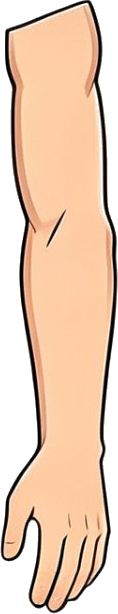
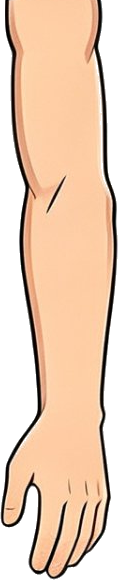
feat: 绑骨 rig 微调（腿内侧减半/关节间隙/头臂下移/小臂缩短）
- 两腿内侧间距缩小一半（LEG_INNER_GAP_SCALE=0.5），外沿对齐臀部外沿

- 上臂-前臂、大腿-小腿关节间隙缩小 1/10 小腿长（JOINT_GAP_REDUCE_FRAC=0.1）

- 头下移 HEAD_DROP=8、两臂下移 ARM_DROP=12（含 neck/shoulder 补偿）

- 左右小臂各缩短 5 世界单位（手长不变、肘距不变）

验证：contact_sheet_test_rig.png 已重生成；godot --check-only 无本次改动引入的新错误（data_portability.gd autoload 缺失为既存无关问题）

Changed region(s): [[0.0, 0.0, 1.0, 1.0]]

diff --git a/godot_project/tools/split_and_rig_test.py b/godot_project/tools/split_and_rig_test.py
@@ -172,6 +172,22 @@ def build_rig_spec(parts: dict) -> dict:
     # 让躯干在世界坐标中长约 110（与 Sherlock 一致）
     world_scale = 110.0 / max(torso_h, 1.0)
 
+    # 缩短小臂：裁掉 forearm 纹理顶端(肘端) 5 世界单位，手(底端)保留。
+    # bone 的 pos/len/pivot 在下方按新尺寸(返回 sz)自动回算 => 肘连接点(与上臂距离)保持不变。
+    FA_SHORTEN = 5.0   # 世界单位
+    fa_crop_px = int(round(FA_SHORTEN / world_scale))
+    for fk in ("forearm_L", "forearm_R"):
+        if fk in parts:
+            fp = OUT_DIR / parts[fk]["filename"]
+            fim = Image.open(fp).convert("RGBA")
+            fw, fh = fim.size
+            crop = max(0, min(fa_crop_px, fh - 20))   # 安全：至少留 20px 纹理
+            if crop > 0:
+                fim2 = fim.crop((0, crop, fw, fh))    # 裁掉顶部 crop 像素（肘端）
+                fim2.save(fp)
+                parts[fk]["size"] = [fim2.width, fim2.height]
+                print(f"  -> shorten {fk}: crop top {crop}px (~5 world units), new {fim2.width}x{fim2.height}")
+
     spec = {
         "character": "test_rig_character",
         "parts_dir": "res://assets/characters/test_rig_character/rig/",
@@ -203,11 +219,17 @@ def build_rig_spec(parts: dict) -> dict:
     GAP = 3.0
     neck_gap = GAP                       # 头-躯干：3px 干净间距
     hip_gap = -15.0                      # 躯干-腿：骨盆正中间收窄约14px，须重叠约15px正中才看连上（腿画在躯干下层，叠入部分被躯干盖住）
+    LEG_INNER_GAP_SCALE = 0.5            # 两腿内侧可见间距缩放（1.0=外沿对齐臀部外沿最开；0.5=内侧间距减半）
+    # 肘/膝关节间距缩小量 = 小腿长度 × 此比例（用户要求缩小 1/10 小腿长度）
+    JOINT_GAP_REDUCE_FRAC = 0.1
+    joint_reduce = sz("shin_L")[1] * world_scale * JOINT_GAP_REDUCE_FRAC
 
-    add("head", "", [0, 0], 0, head_len, head_w * world_scale,
+    HEAD_DROP = 8.0    # 头部整体下移 8 世界单位（较上次 +10 上移 2）
+    ARM_DROP = 12.0    # 两臂整体下移 12 世界单位（较上次 +10 再下移 2）
+    add("head", "", [0, HEAD_DROP], 0, head_len, head_w * world_scale,
         "head.png", [head_w / 2, head_h * head_pivot_y_ratio], skin)
-    # neck 位于 head 底端，torso 从 neck 底端开始 => 颈部长度 = neck_gap
-    add("neck", "head", [0, head_bottom_offset], 0, neck_gap, 14, "", [0, 0], skin)
+    # neck 位于 head 底端；为保持 torso 及以下不动，neck.pos.y 反向补偿 -HEAD_DROP
+    add("neck", "head", [0, head_bottom_offset - HEAD_DROP], 0, neck_gap, 14, "", [0, 0], skin)
     add("torso", "neck", [0, neck_gap], 0, torso_len, torso_w * 0.6 * world_scale,
         "torso.png", [torso_w / 2, 0], skin)
     # hip 位于 torso 底端
@@ -227,9 +249,9 @@ def build_rig_spec(parts: dict) -> dict:
         ua_len = ua_h * world_scale
         fa_len = fa_h * world_scale
 
-        # 肩膀贴在躯干顶部两侧
+        # 肩膀贴在躯干顶部两侧（ARM_DROP 让整条手臂下移 10 世界单位）
         add(f"shoulder_{side}", "torso",
-            [sign * shoulder_x, 0], 0,
+            [sign * shoulder_x, ARM_DROP], 0,
             6, 14, "", [0, 0], pants)
         if ua_h > 50:
             # 上臂 pivot 在 0.1 高度（近顶部）=> 上臂顶端与肩平齐
@@ -239,7 +261,7 @@ def build_rig_spec(parts: dict) -> dict:
             # 前臂 pivot 在 0.05 高度；让前臂顶端接上臂底端
             forearm_top_offset = fa_h * 0.05 * world_scale
             add(f"forearm_{side}", f"upperarm_{side}",
-                [0, ua_len + forearm_top_offset + GAP], sign * 8,
+                [0, ua_len + forearm_top_offset + GAP - joint_reduce], sign * 8,
                 fa_len, fa_w * 0.6 * world_scale, f"{fa_key}.png",
                 [fa_w / 2, fa_h * 0.05], skin)
         else:
@@ -254,9 +276,11 @@ def build_rig_spec(parts: dict) -> dict:
         sh_len = sh_h * world_scale
         # 大腿 pivot 在 0.08 高度；让大腿顶端接髋部/躯干底端
         thigh_top_offset = th_h * 0.08 * world_scale
-        # 腿外沿对齐臀部外沿（躯干两侧边缘）
-        thigh_outer = th_w * 0.55 * world_scale / 2
-        thigh_x = sign * (hip_outer - thigh_outer)
+        # 腿定位：以「纹理外沿对齐臀部外沿」为基准偏移 X0，两腿内侧可见间距 = 2*(thigh_half - X0)。
+        # 用 LEG_INNER_GAP_SCALE 缩放该间距（0.5 = 内侧间距减半，腿更并拢）。
+        thigh_half = th_w * 0.5 * world_scale          # 纹理半宽（可见腿宽的一半）
+        X0 = hip_outer - thigh_half                    # 基准偏移：外沿对齐臀部外沿
+        thigh_x = sign * (thigh_half - (thigh_half - X0) * LEG_INNER_GAP_SCALE)
         add(f"thigh_{side}", "hip",
             [thigh_x, hip_gap + thigh_top_offset], 0,
             th_len, th_w * 0.55 * world_scale, f"thigh_{side}.png",
@@ -264,7 +288,7 @@ def build_rig_spec(parts: dict) -> dict:
         # 小腿 pivot 在 0.05 高度；让小腿顶端接大腿底端
         shin_top_offset = sh_h * 0.05 * world_scale
         add(f"shin_{side}", f"thigh_{side}",
-            [0, th_len + shin_top_offset + GAP], 0,
+            [0, th_len + shin_top_offset + GAP - joint_reduce], 0,
             sh_len, sh_w * 0.5 * world_scale, f"shin_{side}.png",
             [sh_w / 2, sh_h * 0.05], skin)
 
